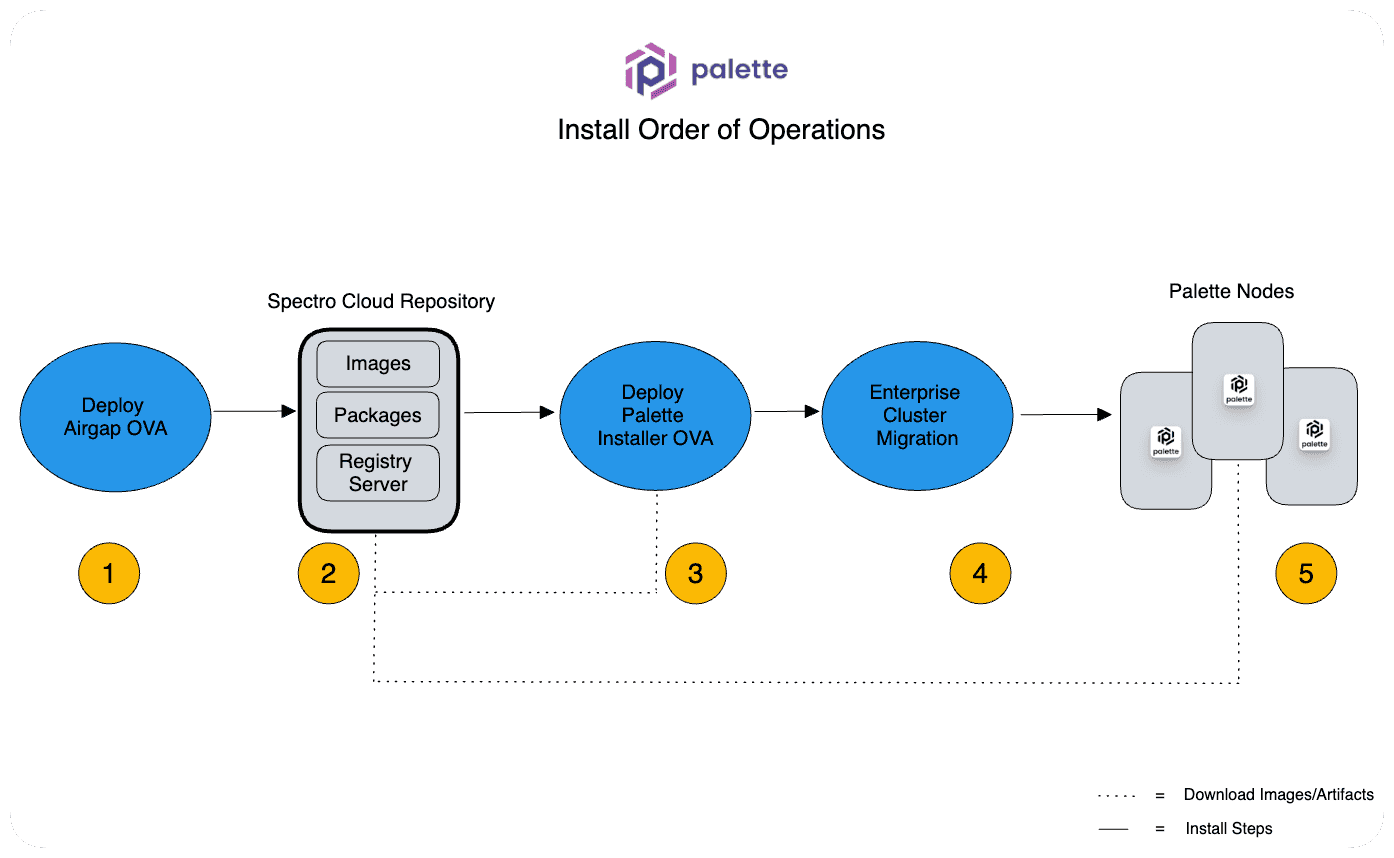
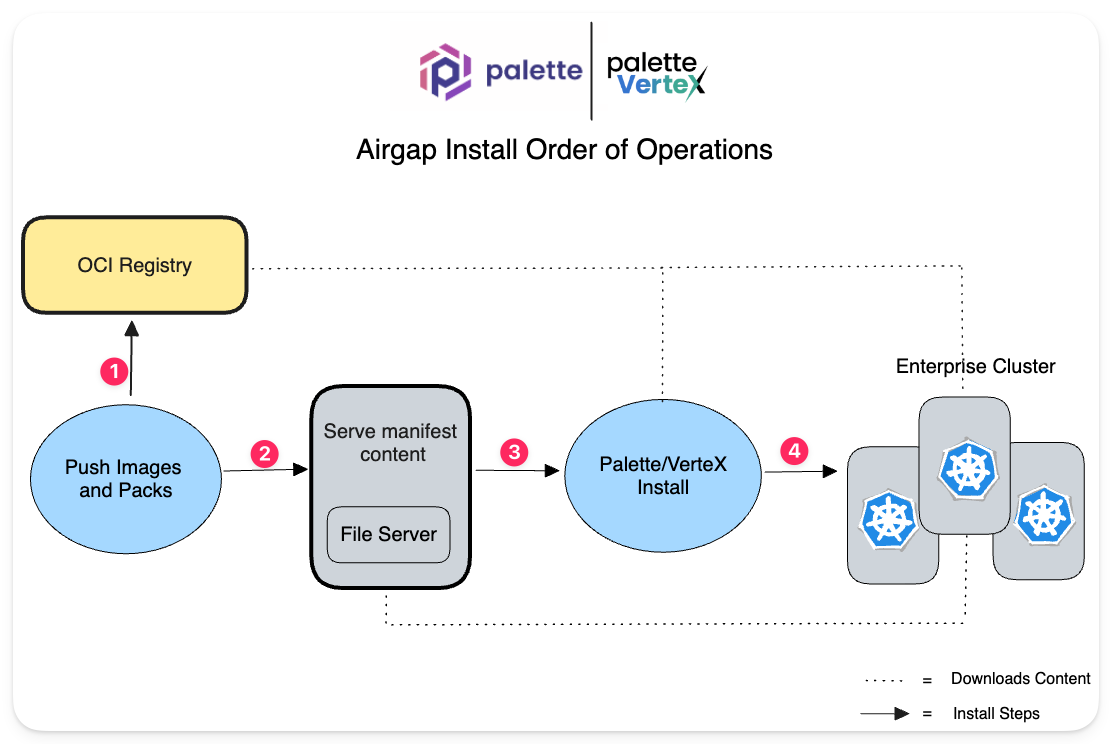
save

Changed region(s): [[0.0, 0.2782, 0.9784, 0.8038], [0.3058, 0.0309, 0.7032, 0.2164], [0.7644, 0.8965, 0.9784, 0.9892]]

diff --git a/docs/docs-content/enterprise-version/install-palette/install-on-vmware/airgap-instructions.md b/docs/docs-content/enterprise-version/install-palette/install-on-vmware/airgap-instructions.md
@@ -8,7 +8,7 @@ sidebar_position: 20
 tags: ["self-hosted", "enterprise", "air-gap"]
 ---
 
-You can install a self-hosted version of Palette into a VMware environment without direct internet access. This type of installation is referred to as an *air gap* installation. 
+You can install a self-hosted version of Palette into a VMware vSpheres environment without direct internet access. This type of installation is referred to as an *air gap* installation. 
 
 In a standard Palette installation, the following artifacts are downloaded by default from the public Palette repository.
 
@@ -21,11 +21,36 @@ In a standard Palette installation, the following artifacts are downloaded by de
 * Palette Packs.
 
 
-The installation process changes a bit in an air gap environment due to the lack of internet access. Before the primary Palette installation step, you must download the three required Palette artifacts mentioned above. The other significant change is that Palette's default public repository is not used. Instead, a private repository supports all Palette operations pertaining to storing images and packages. 
+The installation process for an airgap install is different due to the lack of internet access. Before the primary Palette installation step, you must download the three required Palette artifacts mentioned above. The other significant change is that Palette's default public OCI registry is not used. Instead, a private OCI registry is utilized storing images and packs.
+
+The following diagram outlines the major install steps for an airgap installation.
 
 
+![An architecture diagram outlining the five different install phases](/enterprise-version_air-gap-repo_overview-order-diagram.png)
 
-## Prerequisites
+1. Download the airgap setup binary from the support team. The airgap setup binary is a self-extracting archive that contains the Palette platform manifests, images, and required packs. The airgap setup binary is used to upload the Palette images, and packs to your OCI registry.The airgap setup binary is a one-time use binary. You will not use the airgap setup binary again after the initial installation.
+
+2. Extract the manifest content from the airgap setup binary. The manifest content is hosted on a file server.
+
+3. Install Palette using the Palette CLI. The Palette CLI is used to install Palette into your vSphere environment. 
+
+4. Configure your Palette environment.
+
+
+This guide will provide instructions for how to prepare your airgap environment for a Palette installation, by ensuring you complete all the required preperatory steps (step 1 -3). The actual installation process is covered in the [Install on VMware](../install-on-vmware/install-on-vmware.md) guide.
+
+
+## Prepare Airgap Installation
+
+Use the following steps to prepare your airgap environment for a Palette installation. 
+
+:::tip
+
+Carefully review the [prerequisites](#prerequisites) section before proceeding. This will save you time and frustration. Each prerequisite listed is required for a successful installation.
+
+:::
+
+### Prerequisites
 
 
 - An AMD64 Linux environment with connectivity to the VMware vSphere environment. 
@@ -66,35 +91,6 @@ The installation process changes a bit in an air gap environment due to the lack
 - Review the required VMware vSphere [permissions](vmware-system-requirements.md). Ensure you have created the proper custom roles and zone tags. Zone tagging is required for dynamic storage allocation across fault domains when provisioning workloads that require persistent storage. Refer to [Zone Tagging](../install-on-vmware/install-on-vmware.md#vsphere-machine-configuration) for information.
 
 
-- The following minimum resources are required to deploy Palette.
-
-  - 8 CPUs per VM.
-
-  - 16 GB Memory per VM.
-
-  - 100 GB Disk Space per VM. Storage sizing depends on your intended update frequency and data retention model. 
-
-- The following network ports must be accessible for Palette to operate successfully.
-
-  - TCP/443: Inbound to and outbound from the Palette management cluster.
-
-  - TCP/6443: Outbound traffic from the Palette management cluster to the deployed cluster's Kubernetes API server.
-
-
-- Ensure you have an SSL certificate that matches the domain name you will assign to Palette. You will need this to enable HTTPS encryption for Palette. Reach out to your network administrator or security team to obtain the SSL certificate. You need the following files:
-
-  - x509 SSL certificate file in base64 format.
-
-  - x509 SSL certificate key file in base64 format.
-
-  - x509 SSL certificate authority file in base64 format. This file is optional.
-
-
-- Assigned IP addresses for application workload services, such as Load Balancer services.
-
-
-- Shared Storage between VMware vSphere hosts.
-
 <br />
 
 :::info
@@ -105,35 +101,30 @@ Self-hosted Palette installations provide a system Private Cloud Gateway (PCG) o
 
 <br />
 
-
-
-## Deploy Air Gapped Palette
-
-Use the following steps to deploy an air gapped Palette installation. 
-
-:::tip
-
-Carefully review the [prerequisites](#prerequisites) section before proceeding. This will save you time and frustration. Each prerequisite listed is required for a successful installation.
-
-:::
-
 ### Preperation
 
 Complete the following steps before deploying the air gapped Palette installation.
 
 1. Log in to your vCenter environment.
 
+
 2. Create a vSphere VM and Template folder with the name `spectro-templates`. Ensure this folder is accessible by the user account you will use to deploy the air gapped Palette installation.
 
 
+3. Use the URL below to import the Operating System and Kubernetes distribution OVA required for the install. Place the OVA in the `spectro-templates` folder. Refer to the [Import Items to a Content Library](https://docs.vmware.com/en/VMware-vSphere/8.0/vsphere-vm-administration/GUID-B413FBAE-8FCB-4598-A3C2-8B6DDA772D5C.html?hWord=N4IghgNiBcIJYFsAOB7ATgFwAQYKbIjDwGcQBfIA) guide for information about importing an OVA in vCenter.
 
-3. Import the OVA provided by our support team. Place the OVA in the `spectro-templates` folder. Refer to the [Import Items to a Content Library](https://docs.vmware.com/en/VMware-vSphere/8.0/vsphere-vm-administration/GUID-B413FBAE-8FCB-4598-A3C2-8B6DDA772D5C.html?hWord=N4IghgNiBcIJYFsAOB7ATgFwAQYKbIjDwGcQBfIA) guide for information about importing an OVA in vCenter.
+  ```url
+  https://vmwaregoldenimage-console.s3.us-east-2.amazonaws.com/u-2204-0-k-12510-0.ova
+  ```
 
-4. In your OCI registry, create a repository with the name `spectro-packs` and ensure the repository is private. This repository will host the Palette Packs. Refer to the [Create Projects](https://goharbor.io/docs/2.0.0/working-with-projects/create-projects/) guide for information about creating a repository in Harbor. Refer to the [Create a repository](https://docs.aws.amazon.com/AmazonECR/latest/userguide/repository-create.html) guide for information about creating a repository in AWS ECR.
+4. Append an `r_` prefix to the OVA name after the import. For example, `r_u-2204-0-k-12510-0.ova`. This prefix is required for the install process to identify the OVA.
 
-5. In your OCI registry, create another repository with the name `spectro-images` and ensure the repository is public. The repositry will host Palette images.
 
-6. Authenticate with your OCI registry and aquire credentials to both respositories you created earlier. You will need these credentials when deploying the air gapped Palette installation. 
+5. In your OCI registry, create a repository with the name `spectro-packs` and ensure the repository is private. This repository will host the Palette Packs. Refer to the [Create Projects](https://goharbor.io/docs/2.0.0/working-with-projects/create-projects/) guide for information about creating a repository in Harbor. Refer to the [Create a repository](https://docs.aws.amazon.com/AmazonECR/latest/userguide/repository-create.html) guide for information about creating a repository in AWS ECR.
+
+6. In your OCI registry, create another repository with the name `spectro-images` and ensure the repository is public. The repositry will host Palette images.
+
+7. Authenticate with your OCI registry and aquire credentials to both respositories you created earlier. You will need these credentials when deploying the air gapped Palette installation. 
 
   <Tabs groupId="oci-registry"> 
   <TabItem label="Harbor" value="harbor">
@@ -172,7 +163,7 @@ Complete the following steps before deploying the air gapped Palette installatio
 
 ---
 
-7. The airgap setup binary require a set of environment variables to be available and populated. Depending on what OCI registry you are using, the environment variables will be different. Select the OCI registry you are using and populate the environment variables accordingly.
+8. The airgap setup binary require a set of environment variables to be available and populated. Depending on what OCI registry you are using, the environment variables will be different. Select the OCI registry you are using and populate the environment variables accordingly.
 
   <Tabs groupId="oci-registry">
   <TabItem label="Harbor" value="harbor">
@@ -196,7 +187,7 @@ Complete the following steps before deploying the air gapped Palette installatio
     ```shell hideClipboard
     export OCI_IMAGE_REGISTRY=example.internal.com
     export OCI_PACK_BASE=spectro-packs
-    export OCI_PACK_REGISTRY=example.internal.com
+    export OCI_PACK_REGISTRY=10.10.100.48
     export OCI_IMAGE_BASE=spectro-images
     ```
 
@@ -237,15 +228,15 @@ Complete the following steps before deploying the air gapped Palette installatio
 
 ---
 
-8. Download the airgap setup binary. Our support team will provide you with the download link and the necessary credentials. 
+9. Download the airgap setup binary. Our support team will provide you with the download link and the necessary credentials. 
 
-9. Update the airgap setup binary permissions to allow execution. Replace the file name below with the name of the airgap setup binary you downloaded.
+10. Update the airgap setup binary permissions to allow execution. Replace the file name below with the name of the airgap setup binary you downloaded.
 
   ```shell
   chmod +x airgap-vX.X.X.bin
   ```
 
-10. Start the airgap setup binary. Replace the file name below with the name of the airgap setup binary you downloaded.
+11. Start the airgap setup binary. Replace the file name below with the name of the airgap setup binary you downloaded.
 
   ```shell
   ./airgap-vX.X.X.bin
@@ -269,3 +260,106 @@ Complete the following steps before deploying the air gapped Palette installatio
 
   If you encounter an error during the airgap setup process, verify the required environment variables are set and populated correctly. If you are still having issues, reach out to our support team for assistance.
   :::
+
+
+12. Move the manfiest file located in your temporary directory to the location of your file server. Unzip the manifest file to a folder accessible by the file server.
+  
+    ```shell
+    unzip spectro-manifests-XXXXXXXXXXXX.zip
+    ```
+
+### Validate
+
+
+## Pack Binaries
+
+Review the following table to determine which pack binaries you need to download and upload to your OCI registry. 
+
+| File Name                                    |
+|----------------------------------------------|
+| `airgap-pack-aws-alb-2.5.1.bin`              |
+| `airgap-pack-aws-cluster-autoscaler-1.26.3.bin` |
+| `airgap-pack-cni-calico-3.25.1.bin`          |
+| `airgap-pack-cni-calico-3.26.0.bin`          |
+| `airgap-pack-cni-cilium-oss-1.13.3.bin`      |
+| `airgap-pack-cni-cilium-oss-1.14.1.bin`      |
+| `airgap-pack-csi-aws-ebs-1.20.0.bin`         |
+| `airgap-pack-csi-longhorn-1.4.1.bin`         |
+| `airgap-pack-csi-longhorn-addon-1.4.1.bin`   |
+| `airgap-pack-csi-rook-ceph-1.10.10.bin`      |
+| `airgap-pack-csi-rook-ceph-addon-1.10.10.bin` |
+| `airgap-pack-csi-rook-ceph-helm-1.11.9.bin`  |
+| `airgap-pack-csi-rook-ceph-helm-addon-1.11.9.bin` |
+| `airgap-pack-csi-vsphere-csi-3.0.0.bin`      |
+| `airgap-pack-csi-vsphere-csi-3.0.2.bin`      |
+| `airgap-pack-edge-k3s-1.24.6.bin`            |
+| `airgap-pack-edge-k3s-1.25.0.bin`            |
+| `airgap-pack-edge-k3s-1.25.2.bin`            |
+| `airgap-pack-edge-k3s-1.26.4.bin`            |
+| `airgap-pack-edge-k3s-1.27.2.bin`            |
+| `airgap-pack-edge-k8s-1.24.6.bin`            |
+| `airgap-pack-edge-k8s-1.25.2.bin`            |
+| `airgap-pack-edge-k8s-1.26.4.bin`            |
+| `airgap-pack-edge-k8s-1.27.2.bin`            |
+| `airgap-pack-edge-native-byoi-1.0.0.bin`     |
+| `airgap-pack-edge-rke2-1.25.0.bin`           |
+| `airgap-pack-edge-rke2-1.25.2.bin`           |
+| `airgap-pack-edge-rke2-1.26.4.bin`           |
+| `airgap-pack-edge-rke2-1.27.2.bin`           |
+| `airgap-pack-generic-byoi-1.0.0.bin`         |
+| `airgap-pack-image-swap-1.5.1.bin`           |
+| `airgap-pack-image-swap-1.5.2.bin`           |
+| `airgap-pack-k8s-dashboard-2.7.0.bin`        |
+| `airgap-pack-kubernetes-1.25.10.bin`         |
+| `airgap-pack-kubernetes-1.25.9.bin`          |
+| `airgap-pack-kubernetes-1.26.4.bin`          |
+| `airgap-pack-kubernetes-1.26.5.bin`          |
+| `airgap-pack-kubernetes-1.27.1.bin`          |
+| `airgap-pack-lb-metallb-helm-0.13.10.bin`    |
+| `airgap-pack-prometheus-operator-46.4.0.bin` |
+| `airgap-pack-spectro-grafana-dashboards-4.0.0.bin` |
+| `airgap-pack-spectro-k8s-dashboard-2.7.1.bin` |
+| `airgap-pack-spectro-namespace-labeler-1.0.0.bin` |
+| `airgap-pack-spectro-proxy-1.4.1.bin`        |
+| `airgap-pack-ubuntu-aws-20.04.bin`           |
+| `airgap-pack-ubuntu-aws-22.04.bin`           |
+| `airgap-pack-ubuntu-vsphere-20.04.bin`       |
+| `airgap-pack-ubuntu-vsphere-22.04.bin`       |
+| `airgap-pack-vault-0.24.1.bin`               |
+
+
+
+## Checklist
+
+Use the following checklist to ensure you have completed all the required steps before deploying the airgap Palette installation.
+
+- [ ] `oras` CLI, and `aws` v2 CLI is installed and available.
+
+- [ ] Downloaded the airgap setup binary from the support team.
+
+- [ ] Created a vSphere VM and Template folder with the name `spectro-templates`.
+
+- [ ] Imported the Operating System and Kubernetes distribution OVA required for the install and placed the OVA in the `spectro-templates` folder.
+
+- [ ] Appended an `r_` prefix to the OVA name after the import.
+
+- [ ] Created a private repository with the name `spectro-packs` in your OCI registry.
+
+- [ ] Created a public repository with the name `spectro-images` in your OCI registry.
+
+- [ ] Authenticated with your OCI registry and aquired credentials to both respositories.
+
+- [ ] Set the required environment variables for the airgap setup binary. Refer to step 8 in the [Preperation](#preperation) section for information.
+
+- [ ] Started the airgap setup binary and verified the setup completed successfully
+
+- [ ] Reviewed the list of pack binaries to download and upload to your OCI registry. 
+
+- [ ] Extracted the manifest content from the airgap setup binary to a file server.
+
+- [ ] Ensured the manifest content is hosted on a file server that is accessible from the VMware vSphere environment.
+
+
+## Next Steps
+
+You are now ready to deploy the airgap Palette installation. The important difference is that you will specify your OCI registry and file server during the installation process. Refer to the [Install on VMware](../install-on-vmware/install-on-vmware.md) guide for detailed guidance on installing Palette. 
